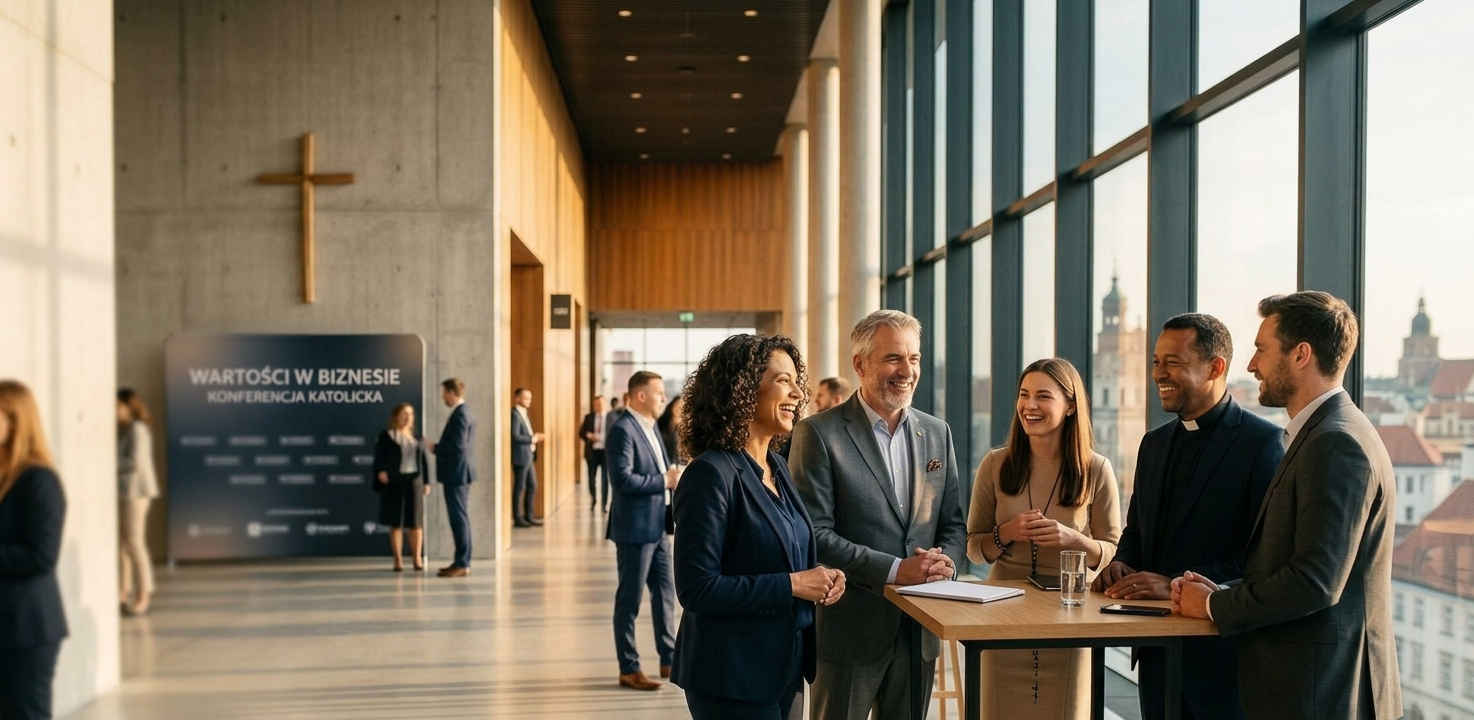
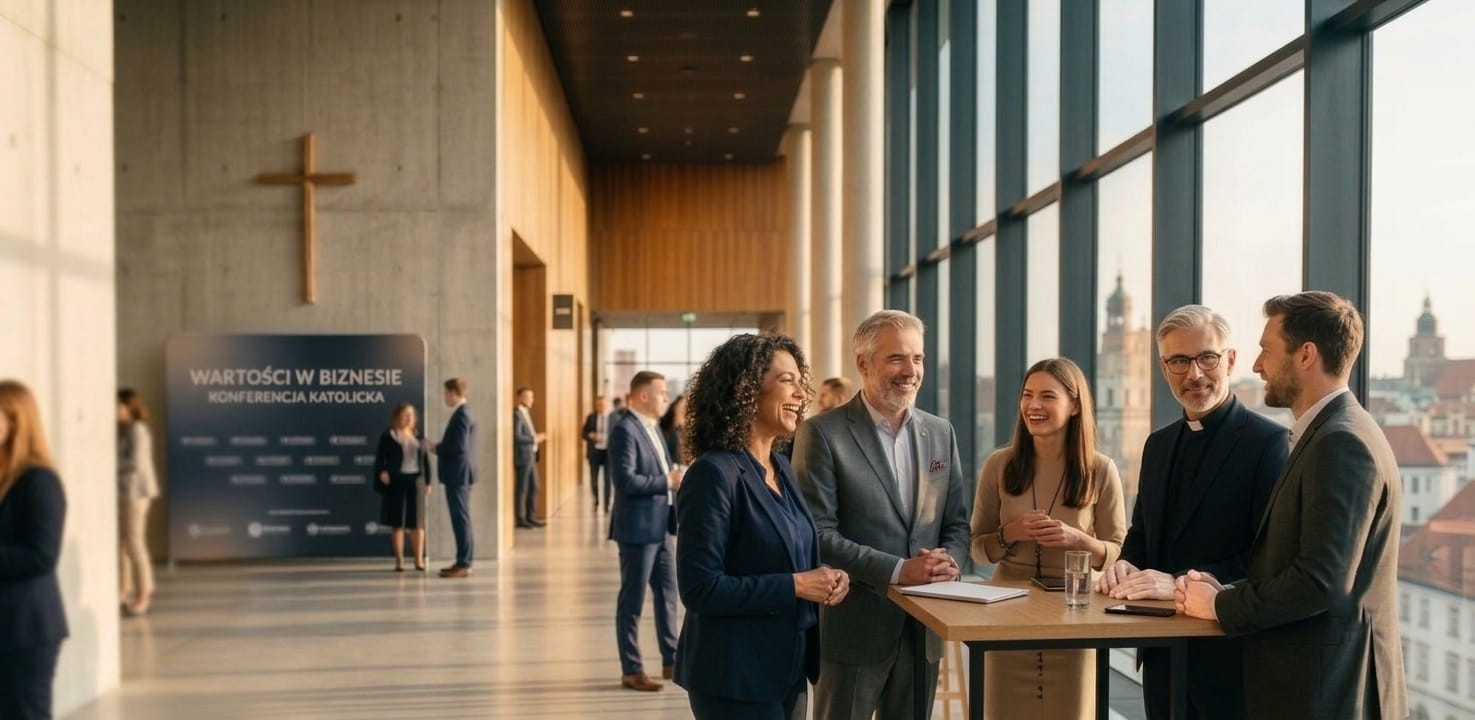
zmiana obrazu i dodanie endpoint

diff --git a/functions/api/admin-add-order.js b/functions/api/admin-add-order.js
@@ -1,0 +1,145 @@
+// functions/api/admin-add-order.js
+//
+// Endpoint do RĘCZNEGO dodawania uczestników, którzy zapłacili
+// poza stroną (przelew, gotówka, faktura itp.). Tworzy wiersz w
+// tabeli `orders` ze statusem COMPLETED i od razu woła
+// finalizePaidOrder(), które wygeneruje bilety PDF z QR i wyśle
+// maile do uczestnika oraz do admina — dokładnie tak samo jak po
+// płatności przez Autopay.
+//
+// WYMAGA: import z Twojego istniejącego pliku finalize-paid-order.js
+// Dostosuj ścieżkę importu do realnej struktury katalogów w projekcie.
+
+import { finalizePaidOrder } from "../lib/finalize-paid-order.js";
+
+function createManualOrderId() {
+  const ts = Date.now().toString(36).toUpperCase();
+  const rand = crypto.randomUUID().replace(/-/g, "").toUpperCase();
+  return `MANUAL${ts}${rand}`.slice(0, 32);
+}
+
+function normalizeText(value, max = 255) {
+  return String(value || "")
+    .trim()
+    .replace(/\s+/g, " ")
+    .slice(0, max);
+}
+
+function isValidEmail(email) {
+  return /^[^\s@]+@[^\s@]+\.[^\s@]+$/.test(String(email || "").trim());
+}
+
+function json(data, status = 200) {
+  return new Response(JSON.stringify(data), {
+    status,
+    headers: { "Content-Type": "application/json; charset=UTF-8" },
+  });
+}
+
+// Ten sam słownik typów biletów co w create-order.js — trzymaj go
+// zsynchronizowany, jeśli zmieniasz ceny/nazwy tam.
+const tickets = {
+  jednodniowy9x: { dbName: "Bilet jednodniowy – 9 października", unit: 59900 },
+  jednodniowy10x: { dbName: "Bilet jednodniowy – 10 października", unit: 59900 },
+  jednodniowy9xbankiet: {
+    dbName: "Bilet jednodniowy – 9 października + Bankiet",
+    unit: 79600,
+  },
+  biznesplus: { dbName: "Biznes Plus – 2 dni", unit: 69900 },
+  vipbankiet: { dbName: "VIP – 2 dni + bankiet", unit: 109900 },
+  vip: { dbName: "VIP z Prezentacją – 2 dni + bankiet", unit: 159900 },
+};
+
+export async function onRequestPost({ request, env }) {
+  if (!env.DB) {
+    return new Response("Missing D1 binding: DB", { status: 500 });
+  }
+
+  // --- Prosta autoryzacja: sekret w nagłówku ---
+  const providedSecret = request.headers.get("x-admin-secret");
+  if (!env.ADMIN_SECRET || providedSecret !== env.ADMIN_SECRET) {
+    return new Response("Unauthorized", { status: 401 });
+  }
+
+  let input;
+  try {
+    input = await request.json();
+  } catch {
+    return new Response("Bad JSON", { status: 400 });
+  }
+
+  const fullName = normalizeText(input?.fullName, 120);
+  const email = normalizeText(input?.email, 255).toLowerCase();
+  const phone = normalizeText(input?.phone, 40) || "-";
+  const street = normalizeText(input?.street, 120) || "-";
+  const city = normalizeText(input?.city, 80) || "-";
+  const postalCode = normalizeText(input?.postalCode, 20) || "-";
+  const ticketType = normalizeText(input?.ticketType, 50).toLowerCase();
+  const quantity = Math.max(1, Math.min(20, parseInt(input?.quantity ?? "1", 10) || 1));
+  // Opcjonalnie: jeśli podasz totalAmountPLN ręcznie (np. bo była zniżka),
+  // użyjemy tej kwoty zamiast cennika.
+  const manualTotalPLN = input?.totalAmountPLN;
+
+  if (!fullName || !email || !ticketType) {
+    return new Response("Missing fields: fullName, email, ticketType", { status: 400 });
+  }
+  if (!isValidEmail(email)) {
+    return new Response("Bad email", { status: 400 });
+  }
+
+  const t = tickets[ticketType];
+  if (!t) {
+    return new Response(`Unknown ticketType. Use one of: ${Object.keys(tickets).join(", ")}`, { status: 400 });
+  }
+
+  const unitPrice = manualTotalPLN
+    ? Math.round((Number(manualTotalPLN) * 100) / quantity)
+    : t.unit;
+  const totalAmount = unitPrice * quantity;
+
+  const extOrderId = createManualOrderId();
+
+  try {
+    await env.DB.prepare(
+      `
+      INSERT INTO orders (
+        ext_order_id, status, provider, created_at, updated_at, paid_at,
+        full_name, email, phone, street, city, postal_code,
+        ticket_type, quantity, unit_price, total_amount, promo_code, promo_applied
+      ) VALUES (?, 'COMPLETED', 'manual', datetime('now'), datetime('now'), datetime('now'),
+        ?, ?, ?, ?, ?, ?,
+        ?, ?, ?, ?, NULL, 0
+      )
+      `,
+    )
+      .bind(
+        extOrderId,
+        fullName,
+        email,
+        phone,
+        street,
+        city,
+        postalCode,
+        t.dbName,
+        quantity,
+        unitPrice,
+        totalAmount,
+      )
+      .run();
+  } catch (e) {
+    return new Response(`DB insert failed: ${String(e)}`, { status: 500 });
+  }
+
+  // To wygeneruje bilety (PDF+QR) i wyśle maile do uczestnika + admina
+  const finalized = await finalizePaidOrder({
+    extOrderId,
+    status: "COMPLETED",
+    env,
+  });
+
+  return json({
+    ok: true,
+    extOrderId,
+    finalized,
+  });
+}

diff --git a/style.css b/style.css
@@ -265,7 +265,7 @@ body {
 }
 
 .hero {
-  background-image: url("obrazy/hero3.jpg");
+  background-image: url("obrazy/hero5.jpg");
   background-size: cover; /* zdjęcie wypełnia cały obszar */
   background-position: center; /* wycentrowanie kadru */
   background-repeat: no-repeat; /* bez powtarzania obrazka */
